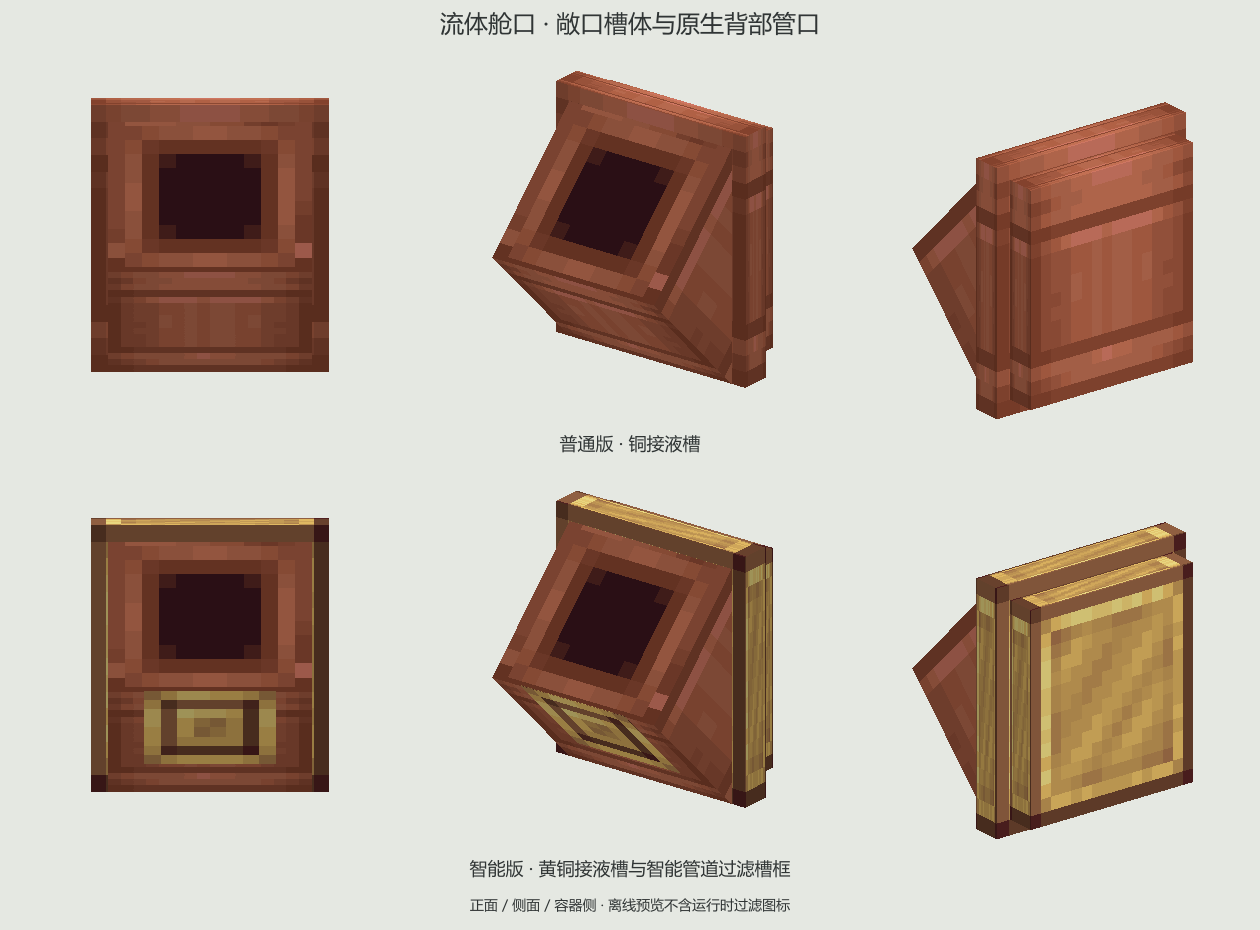
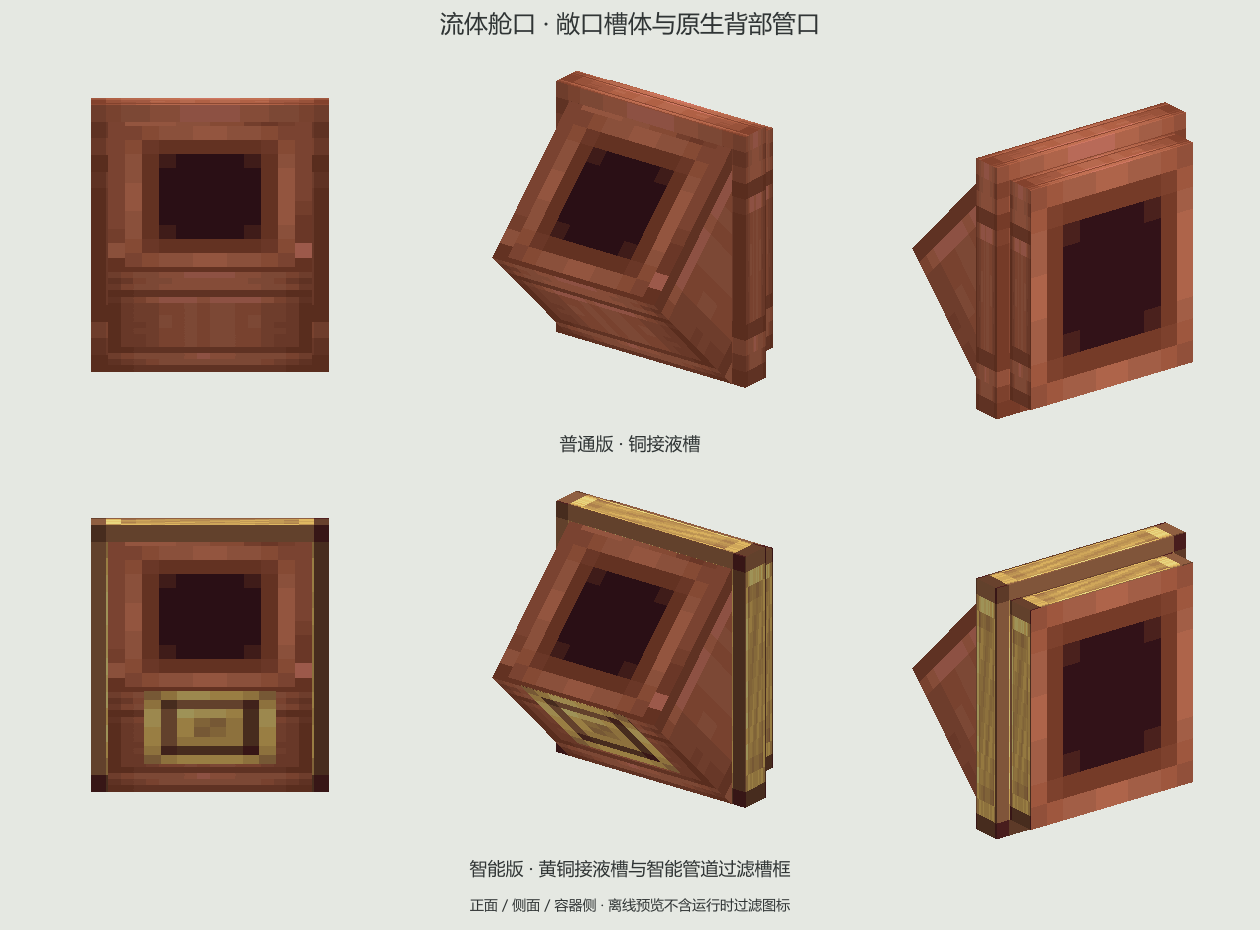
Use matching native fluid socket artwork on both hatch backs

Changed region(s): [[0.8048, 0.5925, 0.9595, 0.9043], [0.8048, 0.1871, 0.9595, 0.4366]]

diff --git a/tools/reference-native-hatch-materials.py b/tools/reference-native-hatch-materials.py
@@ -22,6 +22,9 @@ for element in geometry:
         face.pop('rotation',None)
 for name,body,lid in [('fluid_hatch','fluid_tank','copper_underside'),('smart_fluid_hatch','brass_block','brass_block')]:
     elements=copy.deepcopy(geometry)
+    # Container-facing rear plate: same native pipe socket artwork on both
+    # hatches. Keep the mounting outline, change only its visible rear panel.
+    elements[1]['faces']['north']={'texture':'#pipe','uv':[11,11,16,16]}
     # Restore the native triangular transparency and its precise rotated UVs on
     # the inclined part's two side faces only. All other material references stay.
     clipped=Image.new('RGBA',mask.size)
